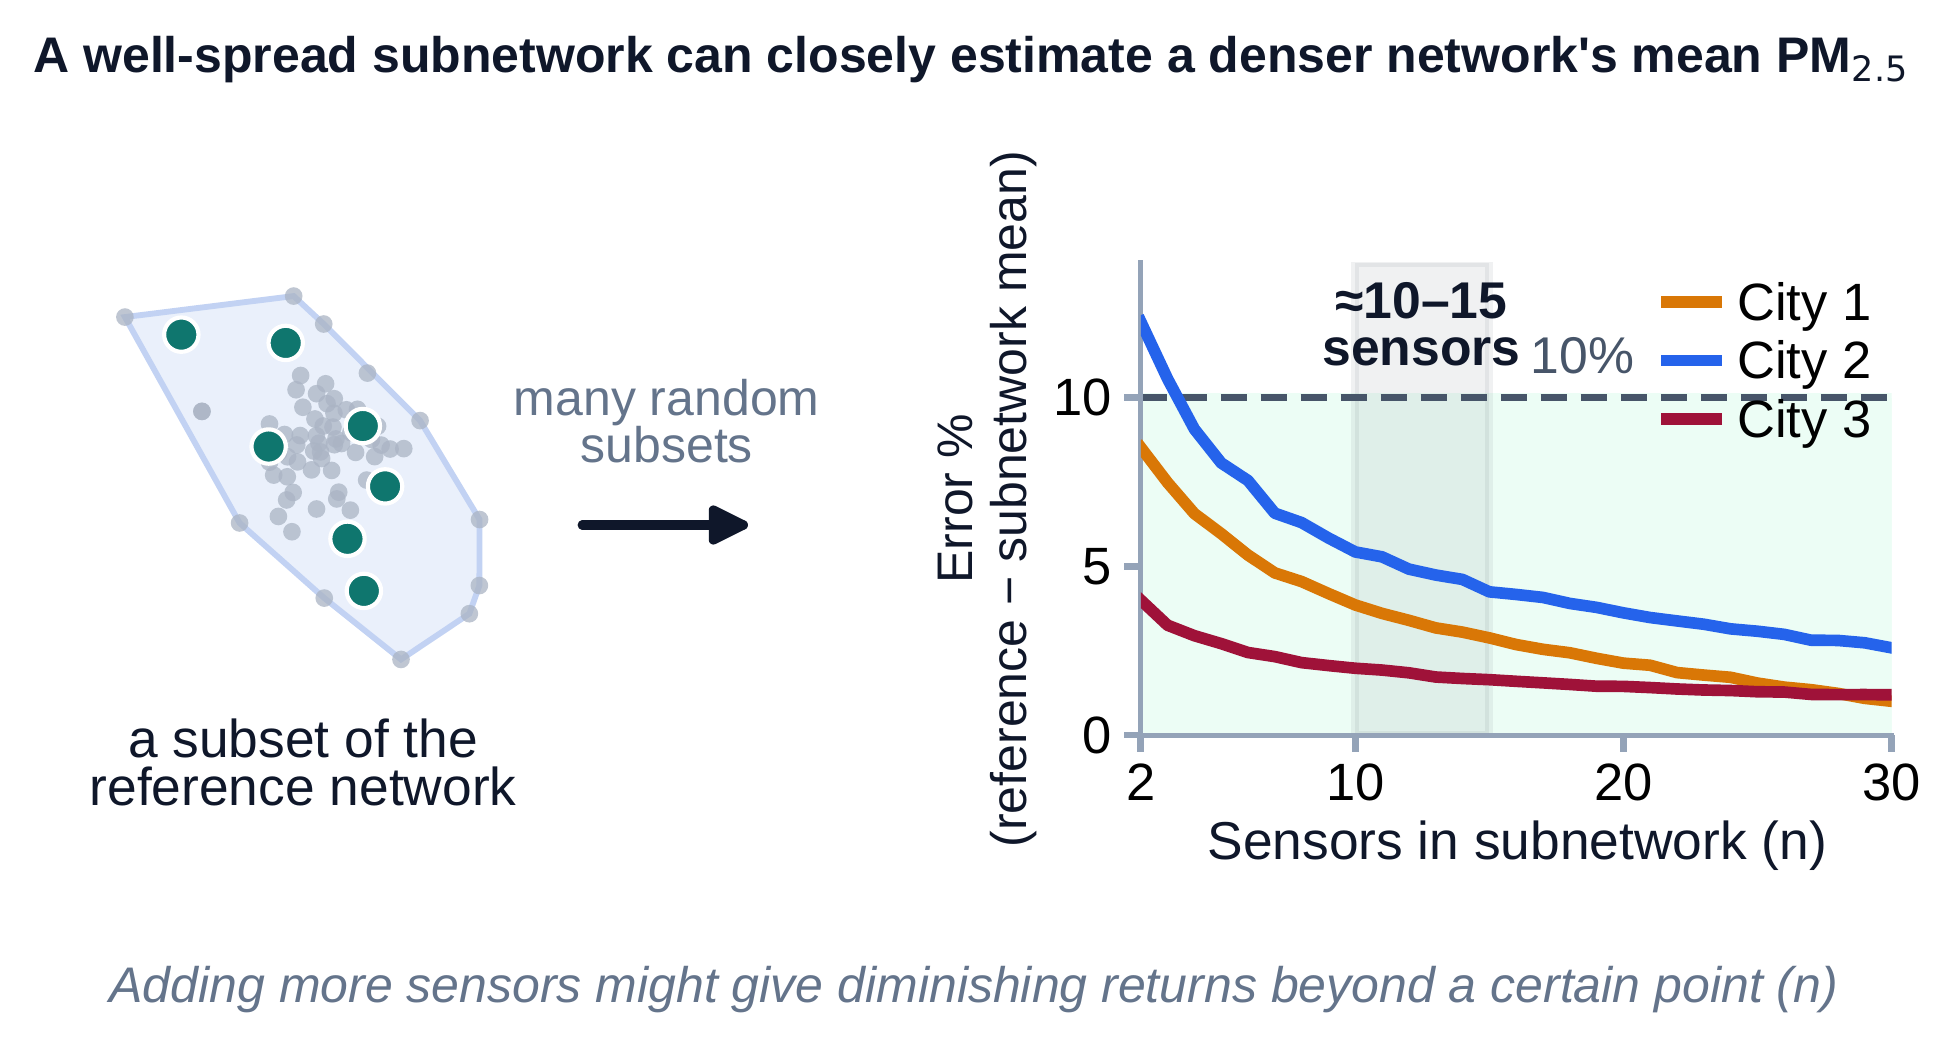
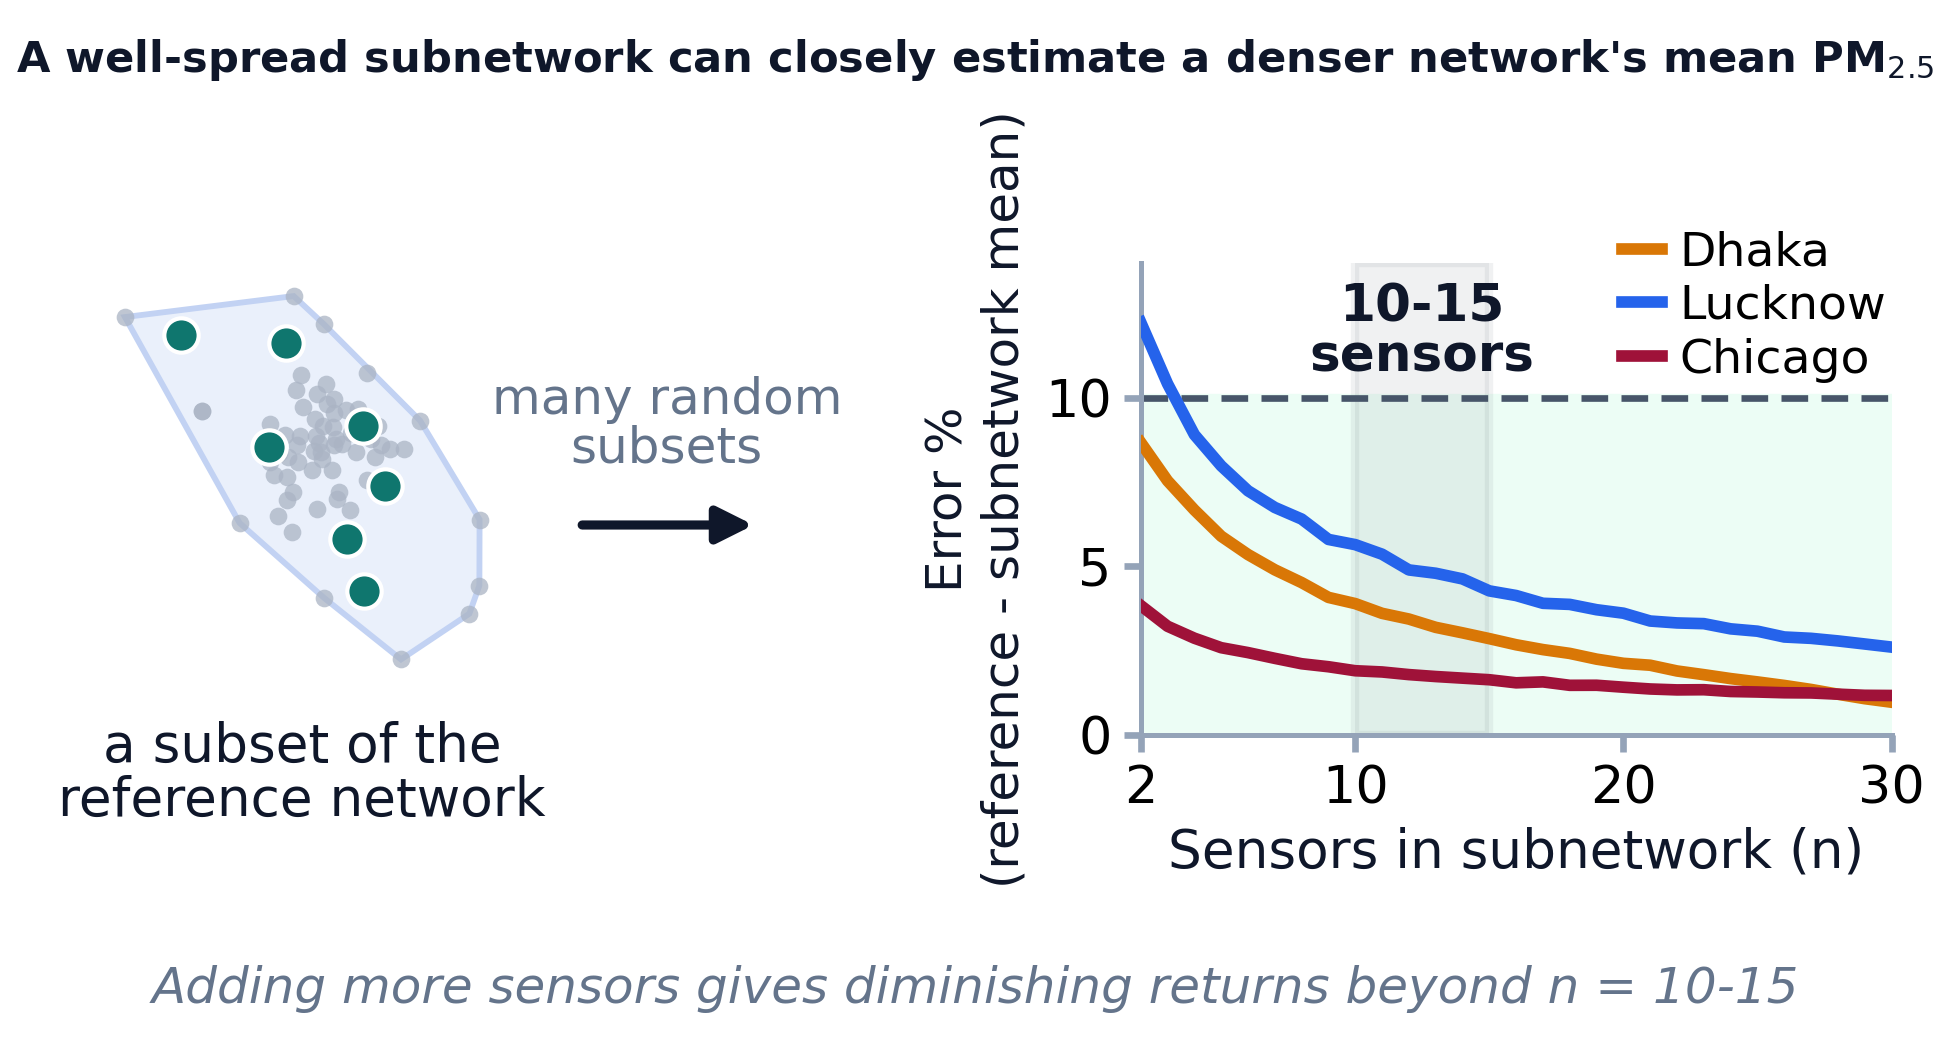
udpating TOC plot only

diff --git a/paper/Manuscript_and_SI/Plots/TOC/build_toc_graphic_v2.py b/paper/Manuscript_and_SI/Plots/TOC/build_toc_graphic_v2.py
@@ -1,0 +1,312 @@
+"""Build the ACS graphical table-of-contents image.
+
+The right panel uses retained period MdAPE curves from the manuscript Monte
+Carlo outputs. The left panel shows the Lucknow network footprint with a
+deterministic, spatially balanced example subnetwork.
+"""
+from __future__ import annotations
+
+import csv
+from pathlib import Path
+
+import matplotlib
+
+matplotlib.use("Agg")
+import matplotlib.pyplot as plt
+import numpy as np
+from matplotlib.patches import FancyArrowPatch, Polygon as MplPolygon
+
+
+REPO_ROOT = Path(__file__).resolve().parents[4]
+OUT_DIR = Path(__file__).resolve().parent
+
+CURVES_CSV = REPO_ROOT / "monte_carlo/plots/figure_data/period_error_curves.csv"
+COORDS_CSV = (
+    REPO_ROOT
+    / "analysis/results/three_city_comparative_analysis/comparative_sensor_level_summary.csv"
+)
+
+SERIES = [
+    ("Dhaka", "dhaka_lcs", "#d97706"),
+    ("Lucknow", "lucknow_lcs", "#2563eb"),
+    ("Chicago", "chicago_lcs_corrected_no_collocation", "#9f1239"),
+]
+
+PICK = "#0f766e"
+INK = "#0f172a"
+GREY = "#aab4c4"
+
+plt.rcParams.update(
+    {
+        "font.family": "DejaVu Sans",
+        "pdf.fonttype": 42,
+        "ps.fonttype": 42,
+        "svg.fonttype": "none",
+        "axes.linewidth": 0.6,
+    }
+)
+
+
+def load_period_curves() -> dict[str, dict[str, object]]:
+    curves: dict[str, dict[str, object]] = {}
+    wanted = {dataset_key for _, dataset_key, _ in SERIES}
+    with CURVES_CSV.open(newline="") as f:
+        for row in csv.DictReader(f):
+            if row["dataset_key"] not in wanted:
+                continue
+            if row["scenario"] != "S0_baseline":
+                continue
+            if row["estimator"] != "arithmetic_mean":
+                continue
+            if row["placement"] != "random_srswor":
+                continue
+            if row["time_aggregation"] != "period" or row["time_index"] != "study_period":
+                continue
+
+            sample_size = int(row["sample_size"])
+            if not 2 <= sample_size <= 30:
+                continue
+
+            entry = curves.setdefault(
+                row["dataset_key"],
+                {
+                    "city": row["city"],
+                    "n_sensors": int(row["n_sensors_available"]),
+                    "points": {},
+                },
+            )
+            entry["points"][sample_size] = float(row["ape_median"])
+
+    missing = wanted - set(curves)
+    if missing:
+        raise RuntimeError(f"Missing TOC curve data for: {sorted(missing)}")
+    return curves
+
+
+def load_lucknow_points() -> np.ndarray:
+    lon: list[float] = []
+    lat: list[float] = []
+    with COORDS_CSV.open(newline="") as f:
+        for row in csv.DictReader(f):
+            if row["city"] != "Lucknow":
+                continue
+            if not row["latitude"] or not row["longitude"]:
+                continue
+            lat.append(float(row["latitude"]))
+            lon.append(float(row["longitude"]))
+    if not lon:
+        raise RuntimeError("No Lucknow coordinates found for TOC map panel")
+    return np.column_stack([lon, lat])
+
+
+def convex_hull(points: np.ndarray) -> np.ndarray:
+    pts = sorted(map(tuple, points))
+
+    def half(seq: list[tuple[float, float]]) -> list[tuple[float, float]]:
+        hull: list[tuple[float, float]] = []
+        for point in seq:
+            while len(hull) >= 2:
+                cross = (hull[-1][0] - hull[-2][0]) * (point[1] - hull[-2][1]) - (
+                    hull[-1][1] - hull[-2][1]
+                ) * (point[0] - hull[-2][0])
+                if cross > 0:
+                    break
+                hull.pop()
+            hull.append(point)
+        return hull[:-1]
+
+    return np.array(half(pts) + half(pts[::-1]))
+
+
+def point_in_hull(x: float, y: float, hull: np.ndarray) -> bool:
+    inside = False
+    j = len(hull) - 1
+    for i in range(len(hull)):
+        xi, yi = hull[i]
+        xj, yj = hull[j]
+        if (yi > y) != (yj > y):
+            x_at_y = (xj - xi) * (y - yi) / (yj - yi + 1e-12) + xi
+            if x < x_at_y:
+                inside = not inside
+        j = i
+    return inside
+
+
+def balanced_subnetwork(points: np.ndarray, k: int, hull: np.ndarray, seed: int = 11) -> list[int]:
+    bounds_min = points.min(axis=0)
+    bounds_max = points.max(axis=0)
+    grid_x = np.linspace(bounds_min[0], bounds_max[0], 55)
+    grid_y = np.linspace(bounds_min[1], bounds_max[1], 55)
+    grid = np.array([(x, y) for x in grid_x for y in grid_y if point_in_hull(x, y, hull)])
+
+    rng = np.random.default_rng(seed)
+    centroids = grid[rng.choice(len(grid), k, replace=False)].astype(float)
+    for _ in range(120):
+        labels = np.argmin(((grid[:, None, :] - centroids[None]) ** 2).sum(axis=2), axis=1)
+        new_centroids = np.array(
+            [
+                grid[labels == idx].mean(axis=0) if (labels == idx).any() else centroids[idx]
+                for idx in range(k)
+            ]
+        )
+        if np.allclose(new_centroids, centroids):
+            break
+        centroids = new_centroids
+
+    selected: list[int] = []
+    used: set[int] = set()
+    for centroid in centroids:
+        for idx in np.argsort(((points - centroid) ** 2).sum(axis=1)):
+            idx = int(idx)
+            if idx not in used:
+                used.add(idx)
+                selected.append(idx)
+                break
+    return selected
+
+
+def main() -> None:
+    curves = load_period_curves()
+    points = load_lucknow_points()
+    hull = convex_hull(points)
+    selected = balanced_subnetwork(points, 7, hull)
+
+    fig = plt.figure(figsize=(3.25, 1.75), dpi=600)
+    fig.patch.set_facecolor("white")
+
+    fig.text(
+        0.5,
+        0.965,
+        "A well-spread subnetwork can closely estimate a denser network's mean PM$_{2.5}$",
+        ha="center",
+        va="top",
+        fontsize=5.2,
+        fontweight="bold",
+        color=INK,
+    )
+    fig.text(
+        0.5,
+        0.035,
+        "Adding more sensors gives diminishing returns beyond n = 10-15",
+        ha="center",
+        va="bottom",
+        fontsize=6.0,
+        color="#64748b",
+        style="italic",
+    )
+
+    ax_map = fig.add_axes([0.03, 0.345, 0.25, 0.40])
+    ax_map.axis("off")
+    ax_map.set_aspect("equal")
+    ax_map.add_patch(
+        MplPolygon(hull, closed=True, facecolor="#eaf0fb", edgecolor="#c2d2f3", lw=0.7, zorder=0)
+    )
+    ax_map.scatter(points[:, 0], points[:, 1], s=4.5, color=GREY, alpha=0.75, linewidths=0, zorder=2)
+    ax_map.scatter(
+        points[selected, 0],
+        points[selected, 1],
+        s=17,
+        color=PICK,
+        edgecolors="white",
+        linewidths=0.5,
+        zorder=4,
+    )
+    margin = 0.04
+    ax_map.set_xlim(points[:, 0].min() - margin, points[:, 0].max() + margin)
+    ax_map.set_ylim(points[:, 1].min() - margin, points[:, 1].max() + margin)
+    ax_map.text(
+        0.5,
+        -0.08,
+        "a subset of the\nreference network",
+        transform=ax_map.transAxes,
+        ha="center",
+        va="top",
+        fontsize=6.4,
+        color=INK,
+        linespacing=1.05,
+    )
+
+    fig.add_artist(
+        FancyArrowPatch(
+            (0.29, 0.50),
+            (0.395, 0.50),
+            transform=fig.transFigure,
+            arrowstyle="-|>",
+            mutation_scale=9,
+            lw=1.1,
+            color=INK,
+        )
+    )
+    fig.text(
+        0.342,
+        0.55,
+        "many random\nsubsets",
+        ha="center",
+        va="bottom",
+        fontsize=6.0,
+        color="#64748b",
+        linespacing=1.0,
+    )
+
+    ax_curve = fig.add_axes([0.585, 0.30, 0.385, 0.45])
+    ax_curve.axhspan(0, 10, color="#ecfdf5", zorder=0)
+
+    for city, dataset_key, color in SERIES:
+        entry = curves[dataset_key]
+        curve_points = entry["points"]
+        sample_sizes = sorted(curve_points)
+        ax_curve.plot(
+            sample_sizes,
+            [curve_points[n] for n in sample_sizes],
+            color=color,
+            lw=1.4,
+            zorder=3,
+            label=city,
+        )
+
+    ax_curve.axvspan(10, 15, color="#0f172a", alpha=0.06, zorder=1)
+    ax_curve.axhline(10, color="#475569", lw=0.8, ls=(0, (4, 2)), zorder=2)
+    ax_curve.text(
+        12.5,
+        13.4,
+        "10-15\nsensors",
+        ha="center",
+        va="top",
+        fontsize=6.2,
+        color=INK,
+        linespacing=1.0,
+        fontweight="bold",
+    )
+    ax_curve.set_xlim(2, 30)
+    ax_curve.set_ylim(0, 14)
+    ax_curve.set_xticks([2, 10, 20, 30])
+    ax_curve.set_yticks([0, 5, 10])
+    ax_curve.tick_params(labelsize=6.3, length=2, pad=1.5, color="#94a3b8")
+    for spine in ("top", "right"):
+        ax_curve.spines[spine].set_visible(False)
+    for spine in ("left", "bottom"):
+        ax_curve.spines[spine].set_color("#94a3b8")
+    ax_curve.set_xlabel("Sensors in subnetwork (n)", fontsize=6.4, color=INK, labelpad=1.5)
+    ax_curve.set_ylabel("Error %\n(reference - subnetwork mean)", fontsize=6.0, color=INK, labelpad=2)
+    ax_curve.legend(
+        loc="upper right",
+        bbox_to_anchor=(1.0, 1.08),
+        fontsize=5.7,
+        frameon=True,
+        framealpha=0.9,
+        facecolor="white",
+        edgecolor="white",
+        borderpad=0.12,
+        handlelength=0.85,
+        borderaxespad=0.0,
+        labelspacing=0.18,
+        handletextpad=0.35,
+    )
+
+    fig.savefig(OUT_DIR / "TOC_v2.pdf", facecolor="white")
+    fig.savefig(OUT_DIR / "TOC_v2.png", facecolor="white", dpi=600)
+    plt.close(fig)
+
+
+if __name__ == "__main__":
+    main()

diff --git a/manuscript/overleaf_projects/01_manuscript_revision_tracked_working/Plots/Supporting_Information/scripts/build_reviewer_requested_figures.py b/manuscript/overleaf_projects/01_manuscript_revision_tracked_working/Plots/Supporting_Information/scripts/build_reviewer_requested_figures.py
@@ -1,5 +1,5 @@
 """
-Generate reviewer-requested figures for the ACS ES&T Air revision.
+Generate reviewer-requested figures for the manuscript revision.
 
 Creates:
   Figure SI 12 - Estimand-framing schematic (Reviewer 3 #19)

diff --git a/FIGURE_TO_SCRIPT_MAP.md b/FIGURE_TO_SCRIPT_MAP.md
@@ -1,13 +1,13 @@
 # Figure / Table → Script → Data Traceability
 
 Every figure and table in the final manuscript and SI is mapped to the script that
-produces it and the data that script reads. The "as-published filename" is what the LaTeX `\includegraphics`
+produces it and the data that script reads. The "paper-facing filename" is what the LaTeX `\includegraphics`
 points to. Many scripts emit a different internal stem during a rerun; the retained paper-facing assets are
 the renamed files under `paper/Manuscript_and_SI/Plots/`.
 
 ## Main text
 
-| Fig | As-published file | Canonical script | Internal stem | Key direct inputs | Verified |
+| Fig | Paper-facing file | Canonical script | Internal stem | Key direct inputs | Verified |
 |---|---|---|---|---|---|
 | 1 | `three_city_sensor_network_reference_monitor_map.pdf` | `maps/scripts/build_manuscript_map_package.py` | `F1_sensor_network_reference_monitor_map` | `data/locations/*`, `data/geo/*` | re-run ✓ |
 | 2a | `period_mdape_vs_sample_size.pdf` | `monte_carlo/scripts/plot_main_monte_carlo.py` | `F2A_period_mdape_common_n2_30` | `monte_carlo/results/runs/p0_baseline_updated_chicago_may31_plus_madhwal_10000_20260602/mc_summary/p0_baseline_summary.parquet` | re-run ✓ |
@@ -17,7 +17,7 @@ the renamed files under `paper/Manuscript_and_SI/Plots/`.
 
 ## Supporting Information
 
-| SI | As-published file | Canonical script | Key direct inputs | Verified |
+| SI | Paper-facing file | Canonical script | Key direct inputs | Verified |
 |---|---|---|---|---|
 | 1 | `chicago_pm25_lcs_aqs_daily_period_map.pdf` | `analysis/scripts/build_chicago_si1_pm25_reference_map.py` | `data/pm/Chicago_{LCS_corrected_daily,AQS_daily}_PM25.csv`, `data/locations/Chicago_*`, `data/geo/Chicago_*` | re-run ✓ |
 | 2 | `three_city_empirical_variogram_binned_by_city.pdf` | `spatial/scripts/build_spatial_distance_correlation_analysis.py` | `data/pm/*_hourly_PM25.csv` (3 cities), `data/locations/*` | provenance ✓ |
@@ -42,9 +42,9 @@ the renamed files under `paper/Manuscript_and_SI/Plots/`.
 
 ## Table of Contents Graphic
 
-| Asset | As-published file | Source | Key direct inputs | Verified |
+| Asset | Paper-facing file | Source | Key direct inputs | Verified |
 |---|---|---|---|---|
-| TOC | `TOC_v2.pdf` | static manuscript graphic retained in `paper/Manuscript_and_SI/Plots/TOC/` | final paper graphic asset | retained ✓ |
+| TOC | `TOC_v2.pdf` + `TOC_v2.png` | `paper/Manuscript_and_SI/Plots/TOC/build_toc_graphic_v2.py` | `monte_carlo/plots/figure_data/period_error_curves.csv`; `analysis/results/three_city_comparative_analysis/comparative_sensor_level_summary.csv` | re-run ✓ |
 
 ## Shared helpers (imported, not standalone outputs)
 

diff --git a/README.md b/README.md
@@ -7,8 +7,6 @@ Code and retained analysis outputs for the manuscript:
 Authors: Trailokaya Raj Bajgain, Zachary D. Calhoun, Sachchida Nand Tripathi, Abdus Salam,
 Vaishali Jain, Sandeep Madhwal, Shahid Uz Zaman, Shatabdi Roy, Michael Bergin, and David Carlson.
 
-Journal: ACS ES&T Air.
-
 Manuscript ID: ea-2026-00035e.
 
 Correspondence: [email redacted] and [email redacted].
@@ -29,7 +27,7 @@ reviewed the retained package and take full responsibility for its contents.
 ## Figure Scope
 
 The paper-facing plot tree, `paper/Manuscript_and_SI/Plots/`, contains the PDFs referenced by the manuscript
-and SI LaTeX files, plus same-basename 600 DPI PNG copies for ACS ES&T Air submission: 5 main-text figure
+and SI LaTeX files, plus same-basename 600 DPI PNG copies for submission requirements: 5 main-text figure
 files, 22 SI figure files, and 1 TOC graphic. Additional plots under `analysis/`, `monte_carlo/`,
 `missingness/`, and `spatial/` are retained source or supporting analysis outputs referenced from the
 manuscript/SI as released analysis outputs; they are not additional paper figures.